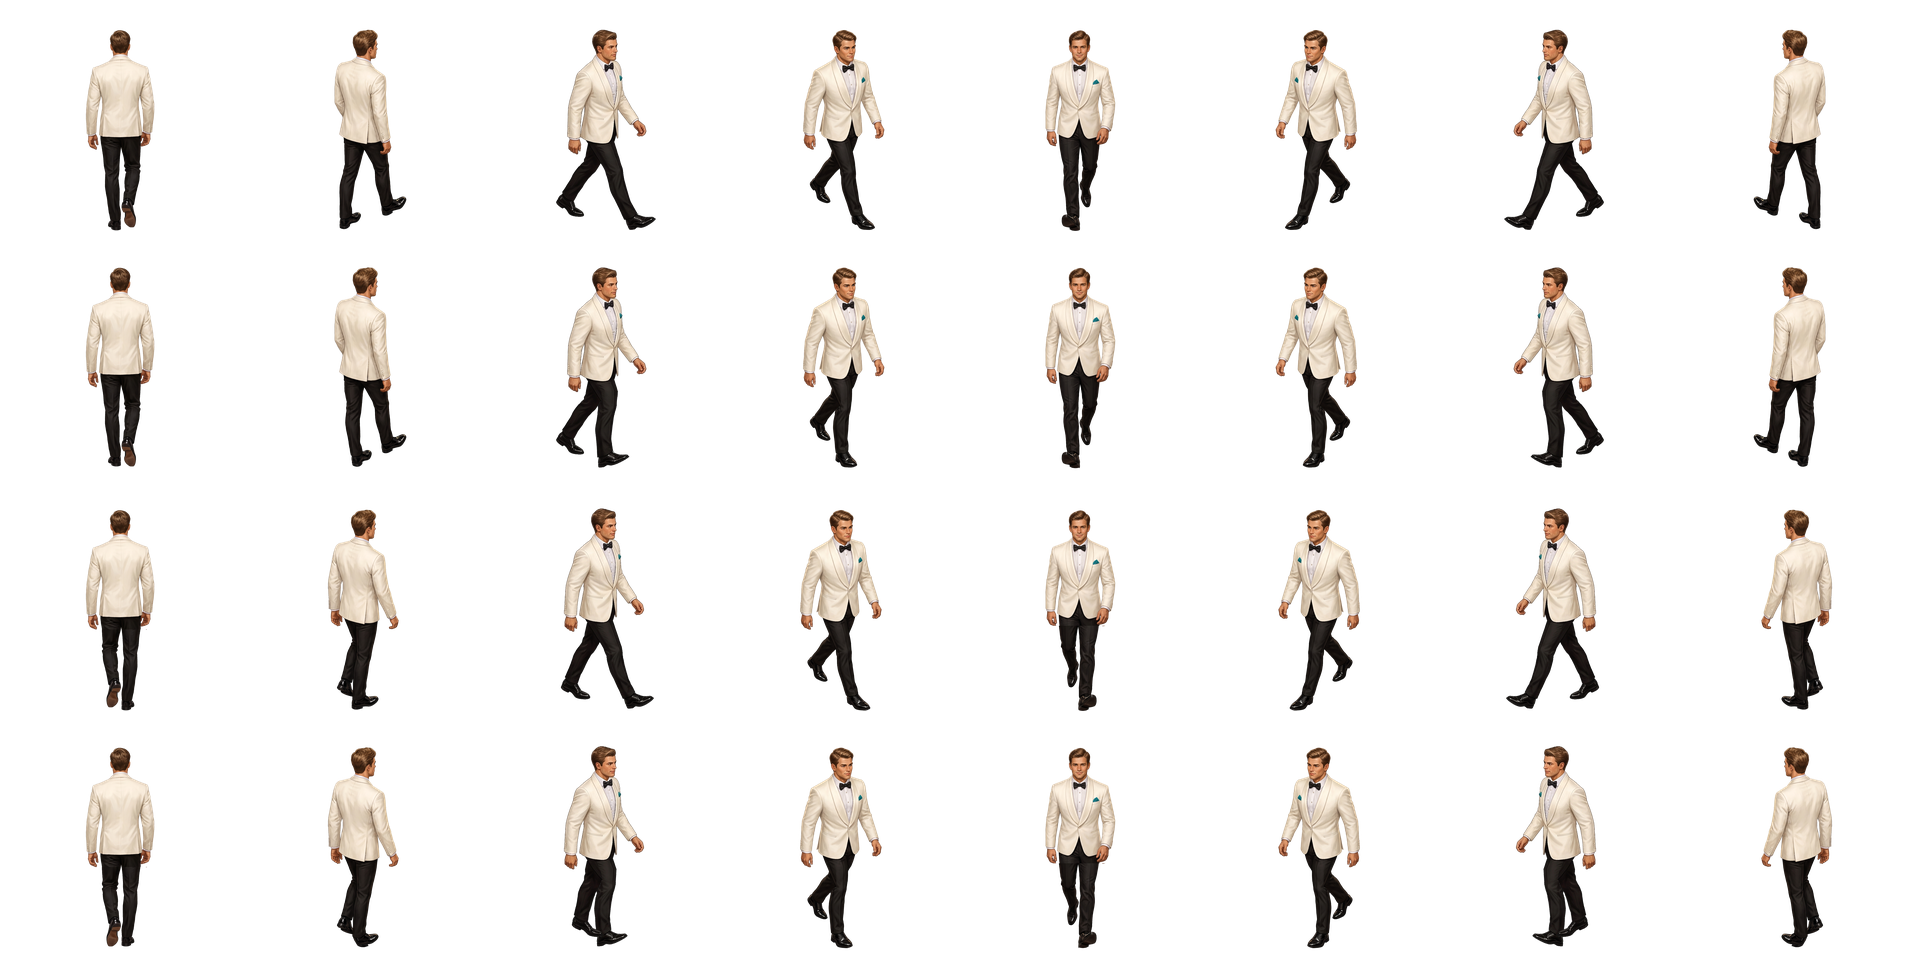
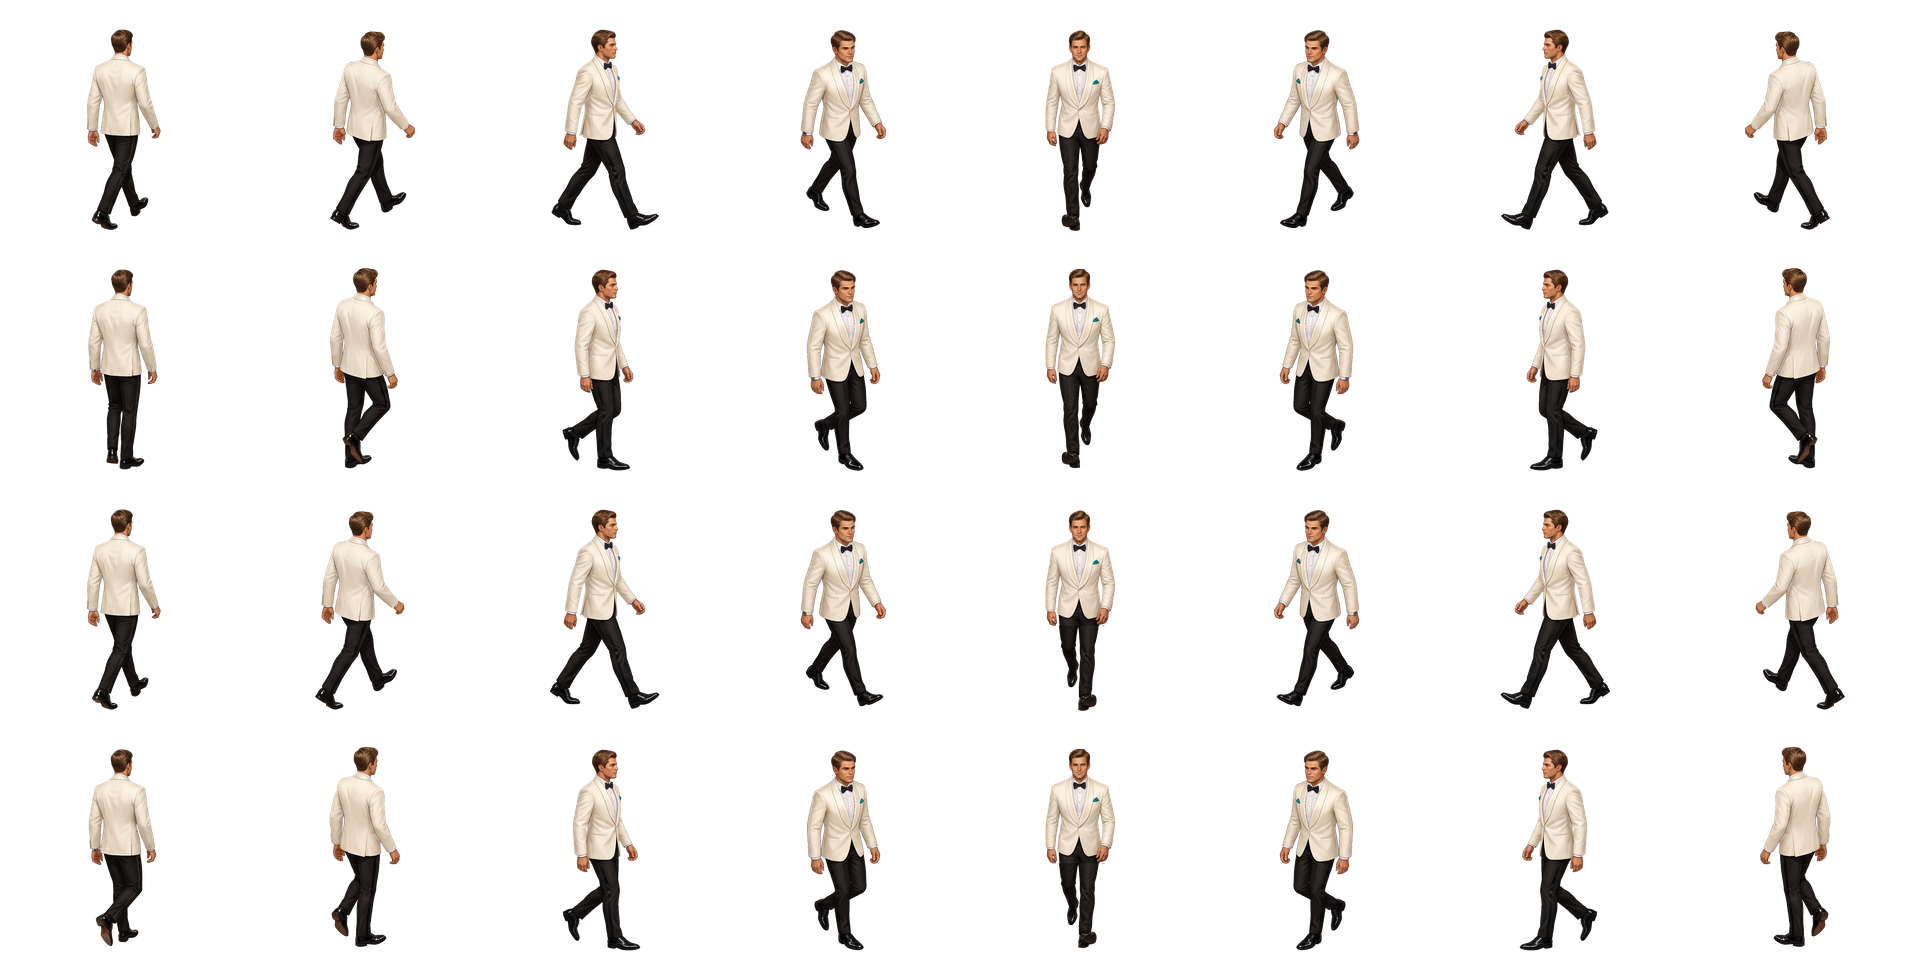
art: rebuild the player walk from biomechanical gait sheets
Side, back and both three-quarter walks now come from Higgsfield sheets
generated with an explicit gait brief (heel strike, passing with a bent
swing knee and lifted foot, toe-off, alternating arms), using their
contact and passing frames. The straight-on front walk keeps the
synthesised cycle because that sheet came out turned sideways.

diff --git a/tools/art/build_player_walk.py b/tools/art/build_player_walk.py
@@ -23,17 +23,18 @@ CELL = 240
 GUTTER = 9
 FOOT_LINE = CELL // 2 + 110
 TARGET_HEIGHT = 200
-# column -> (sheet, grid columns, grid rows, two stride frames, gait)
-# The generated sheets rarely move the legs between frames, so the cycle is
-# synthesised from their strides: "depth" gaits (walking toward or away from
-# the camera) swap the forward foot by mirroring the legs and level the feet
-# for the passing beat; "lateral" gaits pull both feet in under the hips for
-# the passing beat. Every beat therefore moves both legs.
+# column -> (sheet, grid columns, grid rows, frame indices, gait)
+# "authored" gaits come from the biomechanical walk sheets (contact, passing,
+# contact, passing picked by hand; their "down" frames came out as crouches).
+# The straight-on front walk was drawn turned sideways, so it is synthesised
+# from an older front stride: "depth" mirrors the legs to put the other foot
+# forward and levels the feet for the passing beats; "lateral" pulls both feet
+# in under the hips. Every beat moves both legs.
 SHEETS = {
-    0: ("walk_north_1d559697.png", 4, 1, [0, 0], "depth"),
-    1: ("walk_northeast_485daf1c.png", 4, 1, [1, 3], "lateral"),
-    2: ("walk_east_919bbe86.png", 4, 2, [0, 3], "lateral"),
-    3: ("walk_southeast_6fb1a3c6.png", 4, 1, [0, 2], "lateral"),
+    0: ("gait_back_1d78e945.png", 4, 2, [0, 1, 3, 2], "authored"),
+    1: ("gait_back34_baacd1d6.png", 4, 2, [0, 2, 3, 6], "authored"),
+    2: ("gait_side_f150f73b.png", 4, 2, [0, 1, 3, 2], "authored"),
+    3: ("gait_front34_18d33ca1.png", 4, 2, [0, 2, 3, 6], "authored"),
     4: ("walk_south_1fda4226.png", 4, 1, [0, 0], "depth"),
 }
 MIRRORS = {5: 3, 6: 2, 7: 1}
@@ -138,6 +139,8 @@ def lift(rgba: np.ndarray, fraction: float) -> np.ndarray:
 
 
 def cycle(frames: list[np.ndarray], gait: str) -> list[np.ndarray]:
+    if gait == "authored":
+        return frames
     stride_a, stride_b = frames
     if gait == "depth":
         other = mirror_legs(stride_a)
@@ -180,7 +183,8 @@ def frames_for(sheet: str, cols: int, rows: int, order: list[int]) -> list[np.nd
     frames = []
     for index in order:
         gx, gy = index % cols, index // cols
-        cell = image[gy * ch:(gy + 1) * ch, gx * cw:(gx + 1) * cw]
+        inset = 14  # drop any grid lines the model drew between frames
+        cell = image[gy * ch + inset:(gy + 1) * ch - inset, gx * cw + inset:(gx + 1) * cw - inset]
         frames.append(largest_figure(key_out(cell)))
     return frames
 

diff --git a/docs/art/GENERATION-REPORT.md b/docs/art/GENERATION-REPORT.md
@@ -638,3 +638,17 @@ The old burgundy player blended into the burgundy carpet, and its atlas had no l
 | Passing-pose edit of five strides (rejected: legs came back unchanged) | `ad10073b-ff91-43ae-ac64-854eb828684e`, input upload `d91ba4d9-fb13-4c58-bb21-63385e19ded7` | `nano_banana_pro` edit, 21:9, 2k | 2 |
 
 The generated sheets barely move the legs between frames, so `tools/art/build_player_walk.py` synthesises the cycle from their stride frames so that both legs move on every beat: for the front and back walks it mirrors the legs below the jacket hem to put the other foot forward and levels the feet for the passing beats; for the side and diagonal walks it slides each leg in under the hips (shoes keep their shape) for the passing beats. Passing beats rise by 1.2% of the figure height. It keys out the flat grey, scales each sheet once, puts the lowest foot on the atlas foot line and mirrors the east-side columns for the west. It writes `assets/production/characters/player_walk_v2.png` (8 x 4 cells of 240 px with a 9 px transparent gutter). Uploaded reference crops (`ref_*.png`) and the raw sheets are in `assets/source/layered_v2/walk_v2/`. In-engine proof: `tests/results/screenshots/walk_fhd/` (`walk_sheet.png`, a real-time `walk_loop.gif` from `tools/capture_walk.tscn`, and `walk_cycles.gif`, a close-up of every direction's four beats).
+
+### Biomechanical gait sheets (second pass)
+
+The first stride sheets still read as sliding, so each view was regenerated with an explicit gait brief: 8 phases (right heel-strike contact, down, passing with the swing knee bent about 60 degrees and the foot lifted, toe-off, then the same on the left), alternating arms, heel-to-toe roll, a vertical bob that is lowest at "down" and highest at "passing", and depth cues for the front and back views (a satin trouser stripe and a left-wrist watch let the model tell the legs apart). The master `fdd4d071` was the reference each time; `nano_banana_pro` (served as `nano_banana_2`), 16:9, 2k, 2 credits each.
+
+| View | Job | Used frames (contact, passing, contact, passing) |
+| --- | --- | --- |
+| Back (walking away) | `1d78e945-9228-4cf4-923b-ac1ea24e06ea` | 1, 2, 4, 3 |
+| 3/4 back (upper right) | `baacd1d6-86b3-4bb0-afe8-23a7a442aae6` | 1, 3, 4, 7 |
+| Side profile (right) | `f150f73b-df03-4431-b9cb-41d524fe6a61` | 1, 2, 4, 3 |
+| 3/4 front (lower right) | `18d33ca1-15ac-4aca-b999-b98b1f996e2e` | 1, 3, 4, 7 |
+| Front (toward camera) | `a7dded37-6385-4426-8600-d38f2746626d` | not used: the body came out turned sideways and the "down" frames as crouches |
+
+In every sheet the model drew the "down" phase as a crouching lunge and repeated the first row in the second, so the atlas keeps four beats per direction taken from the contact and passing frames. The straight-on front walk stays synthesised from the earlier front stride (`walk_south_1fda4226.png`) as described above. Raw sheets: `assets/source/layered_v2/walk_v2/gait_*.png`.
